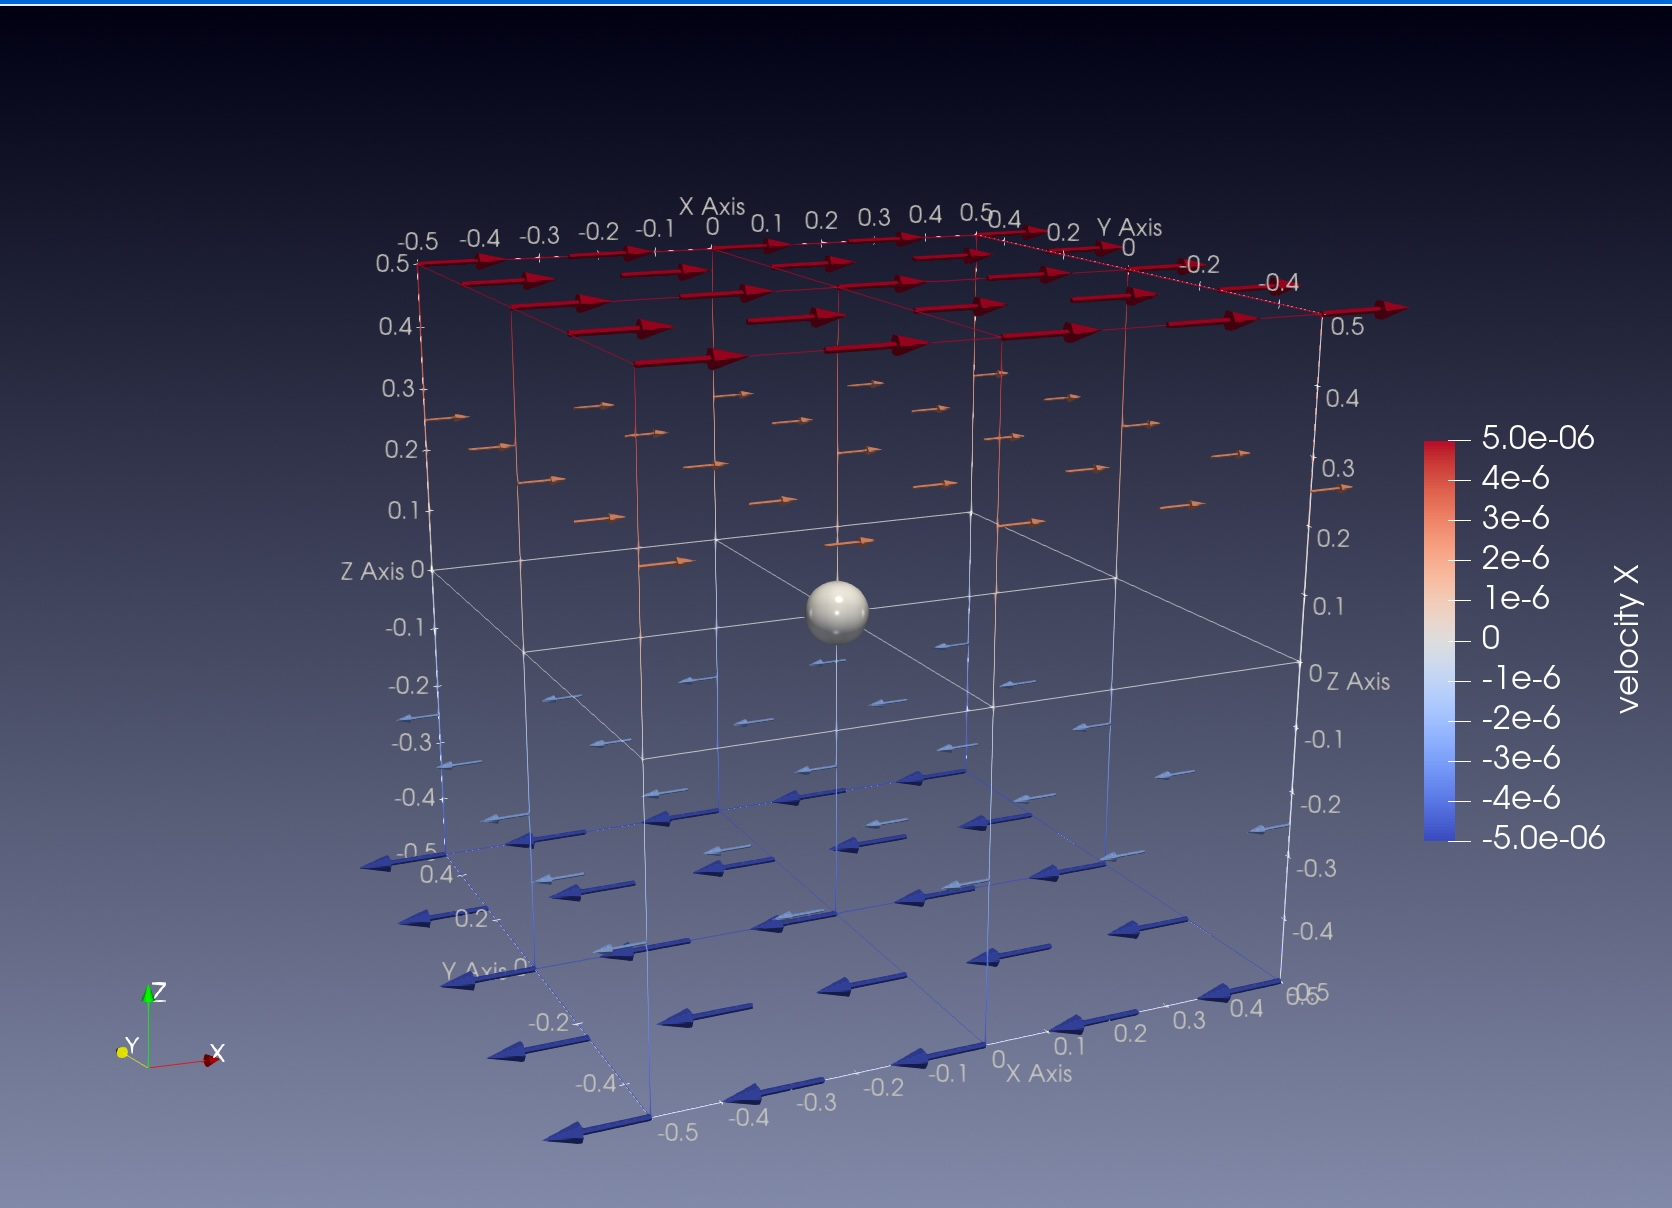
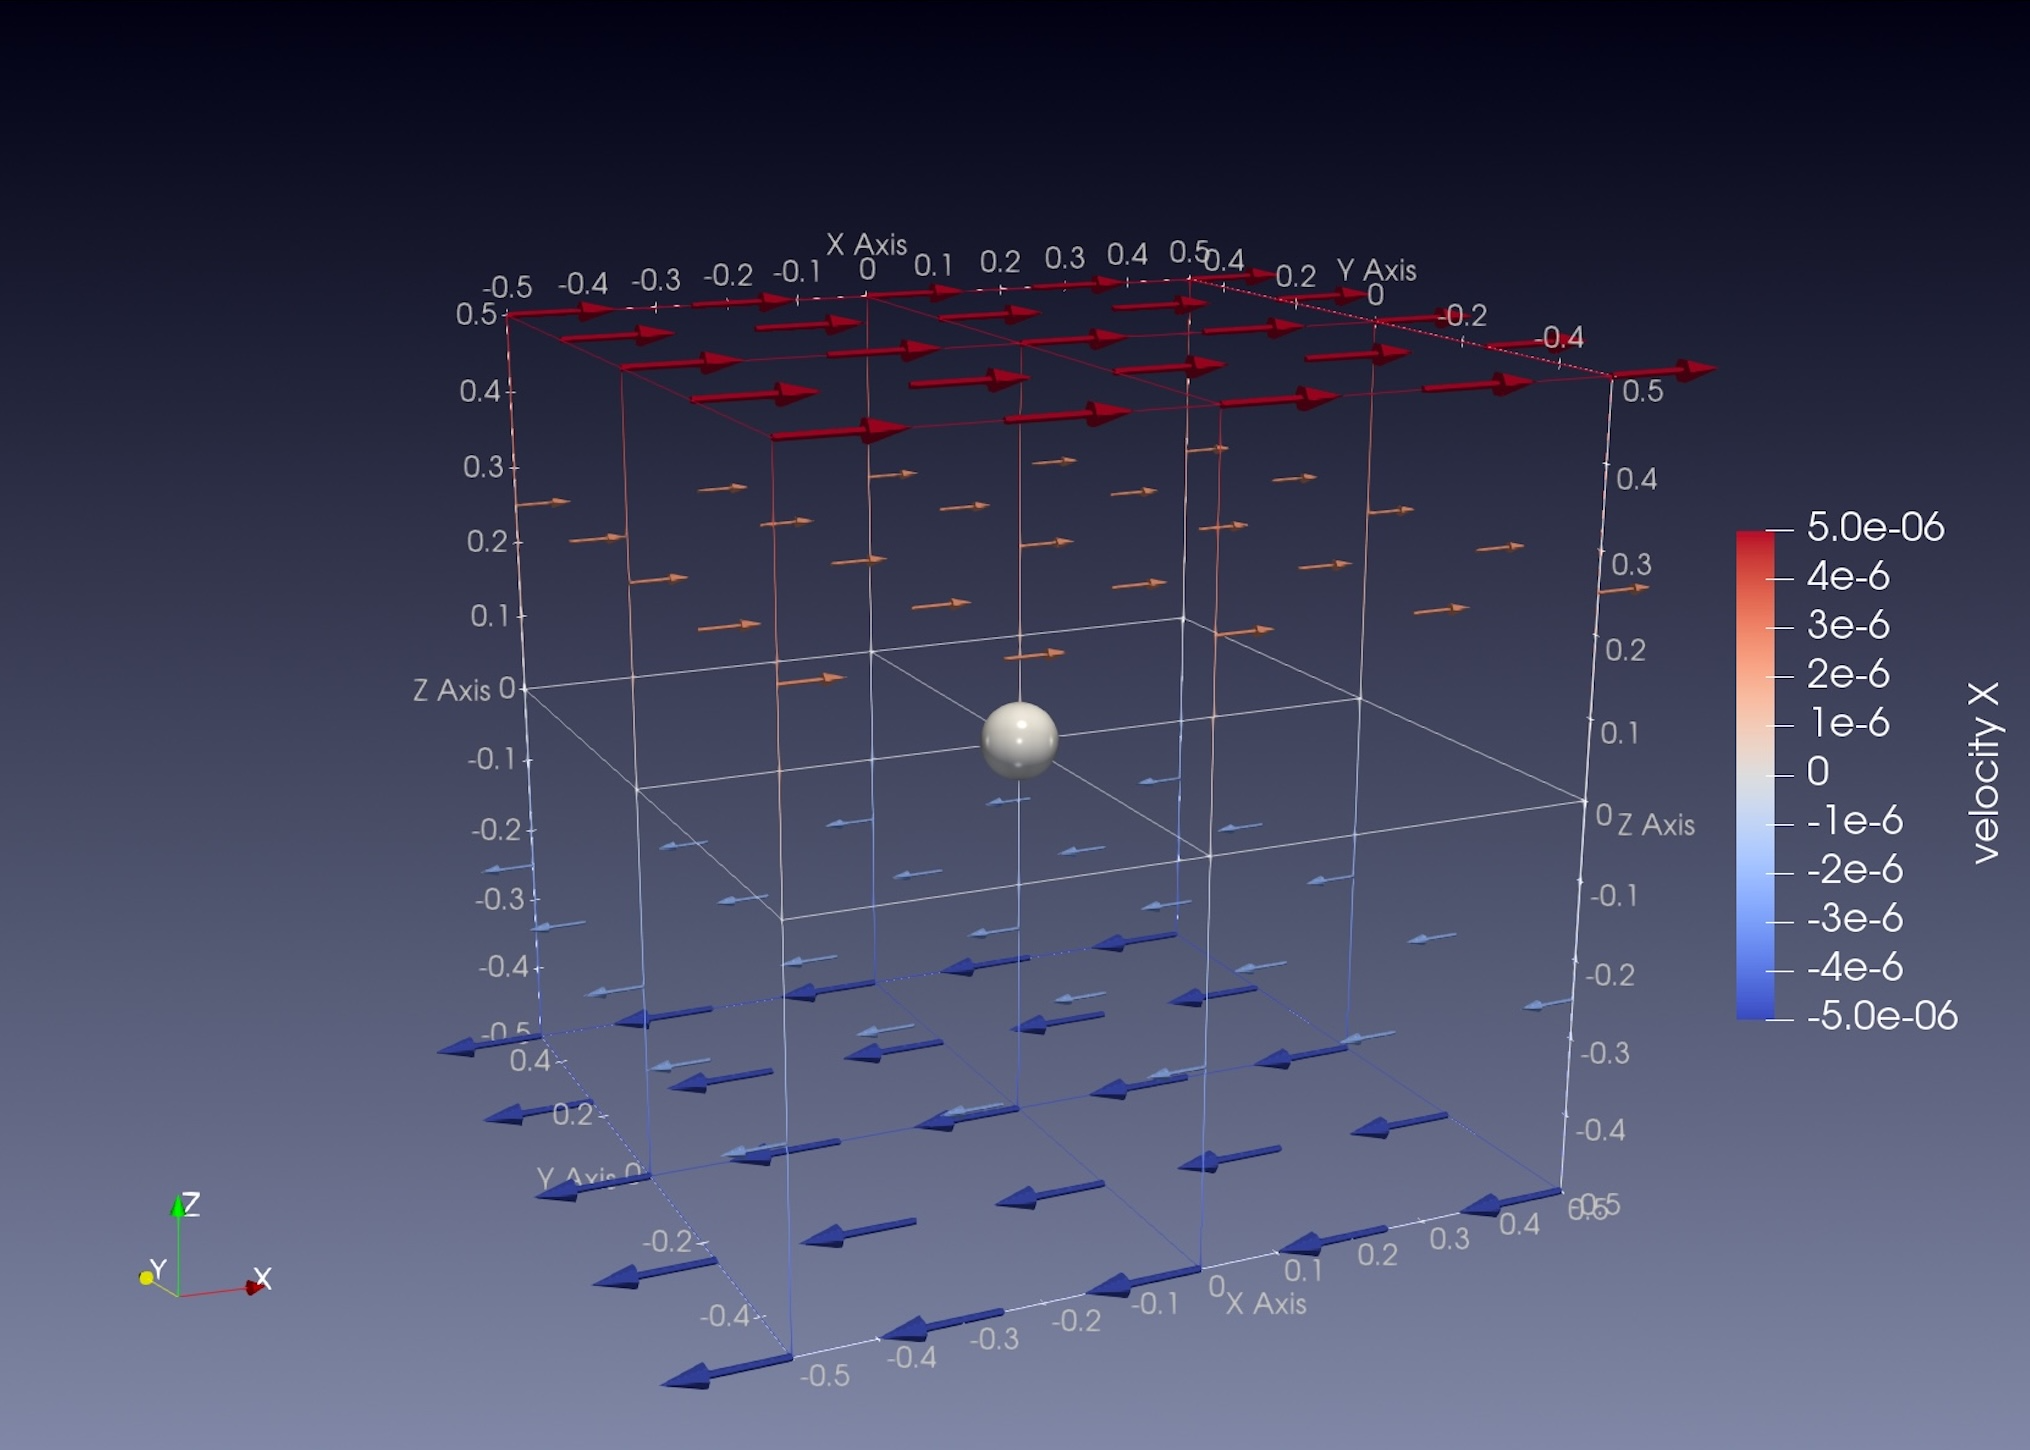
documenting the input file. Adding a tip for using update_prm_files.sh to format the .prm input file so that it works with the 3.0 version.

diff --git a/cookbooks/crystal_preferred_orientation_olivine_fraters_billen_2021/doc/crystal_preferred_orientation_olivine_fraters_billen_2021.md b/cookbooks/crystal_preferred_orientation_olivine_fraters_billen_2021/doc/crystal_preferred_orientation_olivine_fraters_billen_2021.md
@@ -4,7 +4,7 @@
 based on a section in {cite:t}`fraters_billen_2021_cpo` 
 by Menno Fraters and Magali Billen published in 2021.*
 
-This cookbook explains how to set up a numerical experiment for rock fabric
+This cookbook explains how to set up a numerical experiment for fabric
 developments of a single olivine particle under simple shear macroscopic strain. 
 It uses ASPECT's
 crystal preferred orientation implementation, which is described in detail in 
@@ -25,27 +25,38 @@ to infer mantle's deformation.
 
 People care about rock fabric developments under simple shear because it may
 provide a bridge that links seismic anisotropy observations to the
-flows in the upper mantle that accommodate plate motions.
+flows in the upper mantle that accommodate plate motions. Indeed, high temperature and 
+pressure lab experiments using Griggs apparatus to investigate olivine fabrics developments
+under simple shear do find systematic types of fabrics based on the stress and water content conditions
+(see Karato et al., 2008 for details). Here is a 
+[link](https://doi.org/10.1146/annurev.earth.36.031207.124120) to the paper.
 
 ## Model setup
 
 Olivine is the major mineral of the Earth's upper mantle where continuous deformation
 takes place and we here focus on how olivine fabric develops under simple shear.
 
-We prescribe simple shear in a 3d Cartesian box/cube
+Following {cite:t}`fraters_billen_2021_cpo`, we prescribe simple shear in a 3d Cartesian box/cube
 with dimensions of $1 \times 1 \times 1 $ $[m^3]$. The shear strain rate 
-$\dot{\epsilon}_{xz} = 5\times 10^{-6} [s^{-1}]$. The olivine particle is placed
+$\dot{\epsilon}_{xz} = -5\times 10^{-6} [s^{-1}]$. The olivine particle is placed
 right at the center of the cubic box so it stays stationary. The DRex implementation
 keep tracks of rotations of crystal grains within the particle under macroscopic deformation.
 
 ```{figure-md} fig:model_setup_3D_box
-<img src="model_setup_3D_box.png" style="width:50.0%" />
+<img src="model_setup_3D_box.png" style="width:80.0%" />
 3D shear box with velocity vectors. The grey ball is the central olivine particle.
 ```
 
-The model shows how crystal grains rotate and align under simple shear.
+The model shows how crystal grains rotate and align under simple shear with pole figures.
 
 ## The input file
+
+:::{tip}
+Update the input file with update_prm_files.sh inside 
+/aspect/contrib/utilities if the model doesn't run. 
+See Pull Request #5873 
+[conversations](https://github.com/geodynamics/aspect/pull/5873#issuecomment-2167145176) for detail.
+:::
 
 One important problem in models with melting and freezing (and other
 reactions) is that these reactions can be much faster than the time step of
@@ -115,10 +126,12 @@ end of this section.
 The complete input file is located at
 [cookbooks/mid_ocean_ridge/mid_ocean_ridge.prm](https://www.github.com/geodynamics/aspect/blob/main/cookbooks/mid_ocean_ridge/mid_ocean_ridge.prm).
 
+## Plotting pole figure
+
 ## Model evolution
 
 ```{figure-md} fig:mid-ocean-ridge
-<img src="Olivine_A_type.png" style="width:50.0%" />
+<img src="Olivine_A_type.png" style="width:80.0%" />
 
 Mid-ocean ridge model after 8 million years. The top panel shows the depletion and porosity fields (with the characteristic triangular melting region), the bottom panel shows the temperature distribution and the melt velocity, indicated by the arrows.
 ```
@@ -209,3 +222,6 @@ On the implementation and usability of crystal preferred orientation evolution i
 
 - Kaminski, E., Ribe, N. M., & Browaeys, J. T. (2004). 
 D-Rex, a program for calculation of seismic anisotropy due to crystal lattice preferred orientation in the convective upper mantle. Geophysical Journal International, 158(2), 744–752.
+
+- Karato, S., Jung, H., Katayama, I., & Skemer, P. (2008). 
+Geodynamic significance of seismic anisotropy of the upper mantle: New insights from laboratory studies. Annu. Rev. Earth Planet. Sci., 36, 59–95.
